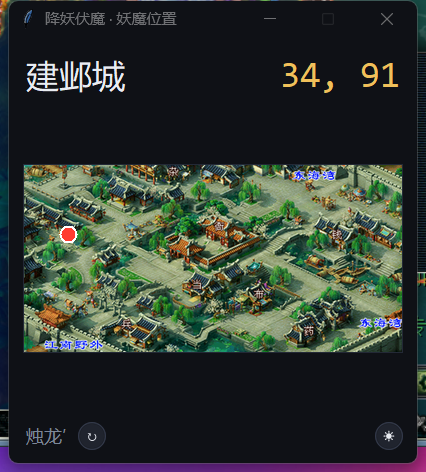
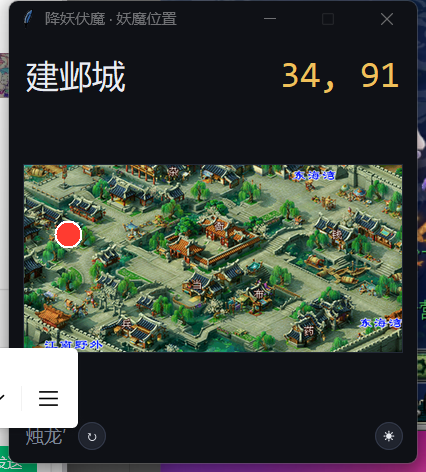
小窗:没目标时占位句落地名位、新目标红点脉冲;底行撤掉最小化按钮,最小化/关闭走标题栏

Changed region(s): [[0.0, 0.0, 0.3967, 1.0], [0.9765, 0.0, 1.0, 0.9492], [0.1221, 0.4449, 0.2136, 0.5339]]

diff --git a/tests.py b/tests.py
@@ -2634,13 +2634,15 @@ def sec_bell_ui():
                   not any("◆ 降妖伏魔 ◆" in _txt(w)
                           for w in _walk(app.bell_win)),
                   str(_texts(app.bell_win)))
-            check("小窗:底行两颗无文字圆钮(☀/☾ 切主题 + ↻ 换客户端)",
+            check("小窗:底行两颗无文字圆钮(↻ 换客户端 / ☀·☾ 切主题)",
                   _txt(app.bell_locate_btn) == ""
                   and _txt(app.bell_theme_btn) == ""
+                  and not hasattr(app, "bell_min_btn")
                   and not hasattr(app, "bell_frame_btn")
                   and not hasattr(app, "bell_region_clear_btn"),
                   f"{_txt(app.bell_locate_btn)!r}/"
-                  f"{_txt(app.bell_theme_btn)!r}")
+                  f"{_txt(app.bell_theme_btn)!r}/"
+                  f"{hasattr(app, 'bell_min_btn')}")
             # ---- 深色 / 明亮两套皮肤:底行那颗 ☀/☾ 切,选择存进 ui_mode ----
             _dark, _light = ui_widgets.BELL_SKINS["a"], ui_widgets.BELL_SKINS["b"]
             check("主题:默认是深色(A)",
@@ -2652,7 +2654,8 @@ def sec_bell_ui():
                   app.bell_mode == "b"
                   and str(app.bell_win.cget("bg")) == _light["bg"]
                   and str(app.bell_canvas.cget("bg")) == _light["paper"]
-                  and str(app.bell_name.cget("fg")) == _light["txt"]
+                  and str(app.bell_name.cget("fg")) == (
+                      _light["sub"] if app.bell_idle else _light["txt"])
                   and str(app.bell_coord.cget("fg")) == _light["gold"]
                   and app.cfg["bell"].get("ui_mode") == "b",
                   f"{app.bell_mode} {app.bell_win.cget('bg')} "
@@ -2763,11 +2766,13 @@ def sec_bell_ui():
 
             app._bell_spot = object()          # 逼它重画(不然缓存命中直接返回)
             ui_bell.draw_bell(app)
-            check("小窗:没妖魔时画布上只写「暂无目标」(不出现监听/定位字样)",
-                  _canvas_txt() == "暂无目标"
+            check("小窗:没妖魔时画布留空,「暂无目标」写在地名位",
+                  _canvas_txt() == ""
+                  and _txt(app.bell_name) == ui_bell.EMPTY_TEXT
+                  and _txt(app.bell_coord) == ""
                   and not any(k in t for t in _texts(app.bell_win)
                               for k in ("监听", "定位")),
-                  f"{_canvas_txt()} / {_texts(app.bell_win)}")
+                  f"{_canvas_txt()!r} / {_texts(app.bell_win)}")
 
             check("小窗:不再显示那两句提示语(右键说明 / 红点说明)",
                   not any("右键" in t for t in shown_texts)
@@ -2907,6 +2912,7 @@ def sec_bell_ui():
             app.engine.bell_tool.ui_state = lambda: {
                 "spot": ("宝象国", 88, 66), "target": "宝象国 (88, 66)"}
             app._bell_spot = None
+            app._bell_last_target = None           # 当成"新目标",应当弹一次
             ui_bell.draw_bell(app)
             items = [app.bell_canvas.type(i)
                      for i in app.bell_canvas.find_all()]
@@ -2931,6 +2937,20 @@ def sec_bell_ui():
                   f"画布 {app.bell_canvas.cget('width')}x"
                   f"{app.bell_canvas.cget('height')} 图@({_ix},{_iy}) "
                   f"{_x1 - _x0}x{_y1 - _y0}")
+            # 新鲜度:新目标弹一下,同值重画不弹
+            check("地图:新目标出现时红点做一次放大-回弹",
+                  bool(getattr(app, "_bell_pulse", None)),
+                  str(getattr(app, "_bell_pulse", None)))
+            _pump(app.root, 400)
+            _co = app.bell_canvas.coords(ovals[0])
+            check("地图:回弹结束红点回到 ±8(16px 直径)",
+                  abs((_co[2] - _co[0]) - 16) < 1
+                  and abs((_co[3] - _co[1]) - 16) < 1, str(_co))
+            app._bell_spot = None
+            ui_bell.draw_bell(app)         # 同一个目标再画一次:不该再弹
+            check("地图:同一目标重画不再回弹(切主题也不会)",
+                  getattr(app, "_bell_pulse", None) is None,
+                  str(getattr(app, "_bell_pulse", None)))
             app.engine.bell_tool.ui_state = lambda: {
                 "spot": ("宝象国", None, None), "target": ""}
             app._bell_spot = None
@@ -2939,6 +2959,17 @@ def sec_bell_ui():
                      for i in app.bell_canvas.find_all()]
             check("地图:只有地图没坐标时不画点、也不写字",
                   kinds == ["image", "rectangle"], str(kinds))
+            # 没目标:画布完全留空,占位句写在地名位(用户 2026-10-21 定的)
+            app.engine.bell_tool.ui_state = lambda: {"spot": None, "target": ""}
+            app._bell_spot = None
+            ui_bell.set_coord(app, "")
+            ui_bell.draw_bell(app)
+            check("地图:没目标 -> 画布留空,占位句在地名位",
+                  len(app.bell_canvas.find_all()) == 0
+                  and _txt(app.bell_name) == ui_bell.EMPTY_TEXT
+                  and _txt(app.bell_coord) == "",
+                  f"{len(app.bell_canvas.find_all())} "
+                  f"{_txt(app.bell_name)!r} {_txt(app.bell_coord)!r}")
 
             app.root.destroy()                # Tk 用完就拆(没有真引擎要收)
 

diff --git a/gui.py b/gui.py
@@ -200,9 +200,9 @@ class App:
         if not self._bell_open():
             ui_bell.build_bell(self)
         bt = self.engine.bell_tool.ui_state()["target"]
-        if bt:
-            self.bell_var.set(bt)
-            ui_bell.set_coord(self, bt)       # 地名/坐标是两个控件,得跟着写
+        # 有没有目标都要写一次:重进功能时工具刚 reset,窗口里可能还挂着上一次的地名
+        self.bell_var.set(bt)
+        ui_bell.set_coord(self, bt)
         # 大小由内容定(皮肤换了以后高度会变,写死一个数会摆偏):set_place 拿
         # 窗口的请求尺寸来居中。
         self._show_here(self.bell_win)
@@ -516,14 +516,14 @@ class App:
                     self._warn_bell_size(bad)
             else:
                 self._bell_size_warned = ""   # 改回支持的分辨率:下次再歪了还能提醒
-            if bt:
-                bv = getattr(self, "bell_var", None)
-                if bv is not None and bv.get() != bt:
-                    bv.set(bt)
-                    # 地名/坐标是两个控件,`bell_var` 改了它们不会自己变 ——
-                    # 必须跟着写(原项目 2026-10-17 用户报"一直停在等待")。
-                    ui_bell.set_coord(self, bt)
-                    ui_bell.draw_bell(self)
+            # 目标清空(工具 reset)也要刷一次:不然窗口里还挂着上一次的地名
+            bv = getattr(self, "bell_var", None)
+            if bv is not None and bv.get() != bt:
+                bv.set(bt)
+                # 地名/坐标是两个控件,`bell_var` 改了它们不会自己变 ——
+                # 必须跟着写(原项目 2026-10-17 用户报"一直停在等待")。
+                ui_bell.set_coord(self, bt)
+                ui_bell.draw_bell(self)
         except Exception:
             pass
         # 引擎线程看门狗:线程退出、或 OCR 假就绪(warmup 推理失败)都重建(10 秒冷却)

diff --git a/ui/widgets.py b/ui/widgets.py
@@ -99,6 +99,29 @@ def dark_titlebar(win, color="#0f1116"):
         pass
 
 
+def hide_maximize(win):
+    """让标题栏右上角只剩最小化 + 关闭(用户 2026-10-21 定的)。
+
+    Tk 的 `resizable(False, False)` 本身就把 `WS_MAXIMIZEBOX` 清了(只是把它
+    置灰),这里再清一遍 + `SWP_FRAMECHANGED` 让非客户区重画。
+    **实测(Win11 24H2 26100)清完那颗按钮只会更灰、不会消失** —— 原生
+    `CreateWindowEx` 建一个没有 `WS_MAXIMIZEBOX` 的窗口也一样,所以那不是本
+    应用的问题;真要它消失得自绘标题栏,代价是丢任务栏图标和最小化,不做。
+    保留这个函数:系统上按钮确实点不动,别的 Windows 版本也许能真删掉。
+    """
+    try:
+        import ctypes
+        hwnd = ctypes.windll.user32.GetParent(win.winfo_id()) or win.winfo_id()
+        gwl_style, ws_maximizebox = -16, 0x00010000
+        style = ctypes.windll.user32.GetWindowLongW(hwnd, gwl_style)
+        ctypes.windll.user32.SetWindowLongW(hwnd, gwl_style,
+                                            style & ~ws_maximizebox)
+        # SWP_NOSIZE|SWP_NOMOVE|SWP_NOZORDER|SWP_FRAMECHANGED
+        ctypes.windll.user32.SetWindowPos(hwnd, 0, 0, 0, 0, 0, 0x1 | 0x2 | 0x4 | 0x20)
+    except Exception:
+        pass
+
+
 def stop_anim(win):
     """把还没跑完的动效停掉。
 
@@ -454,7 +477,9 @@ def apply_bell_skin(mode=None):
             key = f"Bell{tag}_{m}"
             if key in _BELL_ELEMS:
                 continue
-            imgs = _icon_images(glyphs[m] if glyphs else "↻", pal)
+            glyph = ("↻" if glyphs is None
+                     else glyphs[m] if isinstance(glyphs, dict) else glyphs)
+            imgs = _icon_images(glyph, pal)
             _BELL_IMGS[("btn", key)] = imgs
             _ensure(key, imgs, 10)
 

diff --git a/docs/bell-internals.md b/docs/bell-internals.md
@@ -66,13 +66,13 @@
 - **右侧抽屉保留但无入口**（2026-10-20 撤「地图采集」按钮；2026-10-21 应用户要求把抽屉代码原样拷回来——"采集只是从界面移除，代码和逻辑不要删"）：`build_bell` 照旧建 `app.bell_drawer`（`_build_drawer`/`refresh_drawer`/`show_list`/`show_detail`/`toggle_drawer` 全在 `ui/bell.py`），只是没有任何按钮指向它；要开放时加一颗按钮、command 指回 `app.on_map_import`（`on_map_btn`/`on_map_detail` 也都在 `gui.py`）。采集流程本体是 `gui.record_map`（见下面那条）。`toggle_drawer` 的 pady 已按新卡片边距调成 (12,10)。
 - **日志区已整个撤掉**（2026-10-21 用户定的：不需要了）：`bell_log_frame`/`refresh_log`/周期分色（cycle0/cycle1）随界面一起删，Ctrl+Alt+L 热键（`RegisterHotKey` 线程 + `GetAsyncKeyState` 轮询兜底）是只为日志区服务的，一起删——本机的 Ctrl+Alt+L 也早被别的程序占用（`GetLastError=1409`，日志里查得到）。`CYCLE_LOG_MARK` 照旧保留；`app.log` 的 `ui=`/`ui_text=` 参数、`_logs` 队列和 tools 侧的 `bell_kind`/`ui_spot`/`BELL_KIND_WORDS` 已于 2026-10-21 一起删光 —— `App.log` 只剩 `(msg, detail="")`，每行日志只有文件一份。
 - **卡片/日志框的尺寸别写死**：`card` 曾经是 `width/height=424,430 + pack_propagate(False)`，而内容要 479px —— 底下两行按钮被静默裁掉（用户一眼看出来："下面的图标呢？"）。现在卡片高度由内容撑（只有宽度靠 400px 画布定）；`sec_bell_ui` 里量了"每个按钮下边缘 ≤ 卡片高度"防回归。同理 `bell_log_box` 必须写 `width=1`（`tk.Text` 默认 80 字符宽，会把整个窗口撑到 590px，卡片缩在左边、右侧一条空带）——**日志框 2026-10-21 已随日志区一起删掉**，这条只留作以后再加文本控件时的提醒。
-- **小窗皮肤**（`ui/widgets.py:apply_bell_skin()` + `BELL_SKINS`；2026-10-16 定过 Q版风、2026-10-21 上午换成客户端风，**2026-10-21 用户看完对比稿后选定「深色 HUD」A，并要求加一颗按钮切到明亮 B**）：两套色板 `BELL_SKINS = {"a": 深色, "b": 明亮}`，版面完全相同。共同点：**单面色板 + 地图当主体**，坐标用 Consolas 等宽数字（位数一变不左右跳）、红点带 2px 白描边（`sec_bell_ui` 盯着）、**不出现「监听/定位」这类交代程序在干什么的文案**（用户定的 2026-10-21）、没目标时画布上只有「暂无目标」、字体 `Microsoft YaHei UI`（宋体在 10px 会糊）。
+- **小窗皮肤**（`ui/widgets.py:apply_bell_skin()` + `BELL_SKINS`；2026-10-16 定过 Q版风、2026-10-21 上午换成客户端风，**2026-10-21 用户看完对比稿后选定「深色 HUD」A，并要求加一颗按钮切到明亮 B**）：两套色板 `BELL_SKINS = {"a": 深色, "b": 明亮}`，版面完全相同。共同点：**单面色板 + 地图当主体**，坐标用 Consolas 等宽数字（位数一变不左右跳）、红点带 2px 白描边（`sec_bell_ui` 盯着）、**不出现「监听/定位」这类交代程序在干什么的文案**（用户定的 2026-10-21）、**没目标时占位句「暂无目标」写在地名位**（`ui/bell.py:EMPTY_TEXT`，`sub` 色），画布**完全留空**——不在画布中间写字（2026-10-21 用户报过"像卡片上开了个洞"）、**新目标出现时红点弹一次**（`PULSE_FRAMES`，16→~30px 再回弹，~175ms；同目标重画不弹，判据 `app._bell_last_target`；用户不要时间戳，这是唯一的新鲜度反馈）、字体 `Microsoft YaHei UI`（宋体在 10px 会糊）。
   - A 深色（默认）：`bg`=`#0f1116`、`paper`=`#0f1116`（**和窗口底同色**：底图比画框窄/矮时的留边就是窗口底色，别出现"另一个颜色的框"，用户 2026-10-21 报过）、`line`=`#232936`、`txt`=`#e9ecf2`、`sub`=`#7d8798`、坐标 `gold`=`#f0c05a`、红点 `#ff3b30`、标题栏刷成 `#0f1116`。
   - B 明亮：`bg`=`#ffffff`、`paper`=`#ffffff`（同上）、`line`=`#e4e7ec`、`txt`=`#141922`、`sub`=`#6b7280`、坐标 `gold`=`#111827`（近黑，明亮模式不用金色）、红点 `#ef4444`、标题栏恢复系统浅色（`dark_titlebar(win, None)`）。
   - 地图外圈有 **1px 内描边**（色板 `map_edge`：深色 `#232936` 几乎看不见，明亮 `#d8dde5` 给白底一个边界）；画布元素是 `rectangle`，`sec_bell_ui` 盯着条数。
   - 切换机制：两个模式的 ttk 元素在第一次调用时**各建一套**（元素名带模式后缀，如 `BellBtn_a` / `BellBtn_b`），切换只改 `style.layout()` 指向哪套 + `style.configure()` 的颜色；`_BELL_APPLIED` 记住"当前已生效的模式"，同模式重复调用直接返回（否则 `draw_bell` 每次重画几十张 PIL 图）。tk 控件（窗口/标签/画布）的颜色切换在 `ui/bell.py:apply_theme`，调用点 `gui.App.on_toggle_theme`（存 `bell.ui_mode`）。
   **Tk 给不了圆角**，圆角控件都是 PIL 现画：`_round_pil()` / `_round_img()` / `_btn_images()`（96x40 三态）/ `_icon_images()`（28x28 圆形 ↻）/ `bell_image("chip")`（抽屉小标题）。三个坑：**① 这些 PhotoImage 必须自己留引用**（`_BELL_IMGS`），Tk 图没人持有就销毁，样式元素会指向空图 —— 表现是"按钮突然退回没底色的文字"，而且第一次渲染还看不出来（GC 还没跑）；② 缓存和 ttk 元素都**按 Tk 解释器**存（`_BELL_TK`），测试里新建 root 要重建；③ `style.element_create(el, "image", 常态图, ("active", 悬停图), ("pressed", 按下图), border=N)` —— **状态名在前、图在后**，写成 `(图, ("active",))` 会报 `Invalid state name ...` 并被 `except` 吞掉：这处静默失败让圆角按钮从上线起一直是**方角纯色块**，直到 2026-10-21 才修（顺带 `border` 不能大于图的一半，`background` 必须填**窗口底色** —— 圆角图四角是透明的，填按钮自己的颜色会露方块）。
-  按钮仍是标准 ttk 按钮套图片布局（`winfo_class()` 还是 `TButton`、`cget("text")`/`invoke()` 照旧）；**图标按钮要 `width=0`**，不写的话 ttk 按主题默认宽 77px 摆。样式名一律 `Bell` 前缀：`Bell.TButton` / `BellGold.TButton` / `BellAccent.TButton` / `BellGhost.TButton` / `BellIcon.TButton` / `BellSection.TLabel` / `BellFoot.TLabel` / `Bell.TFrame`。标题栏由 `dark_titlebar()`（`DwmSetWindowAttribute`，属性 20/19 + 35）刷深色 —— **必须在窗口显示出来之后再设**（建窗那一下设了会被系统盖回去，所以 `bind("<Map>")` 每次显示都刷一次）。
+  按钮仍是标准 ttk 按钮套图片布局（`winfo_class()` 还是 `TButton`、`cget("text")`/`invoke()` 照旧）；**图标按钮要 `width=0`**，不写的话 ttk 按主题默认宽 77px 摆。样式名一律 `Bell` 前缀：`Bell.TButton` / `BellGold.TButton` / `BellAccent.TButton` / `BellGhost.TButton` / `BellIcon.TButton` / `BellSection.TLabel` / `BellFoot.TLabel` / `Bell.TFrame`。标题栏由 `dark_titlebar()`（`DwmSetWindowAttribute`，属性 20/19 + 35）刷深色 —— **必须在窗口显示出来之后再设**（建窗那一下设了会被系统盖回去，所以 `bind("<Map>")` 每次显示都刷一次）。同一次 `<Map>` 里还调 `hide_maximize()` 清掉 `WS_MAXIMIZEBOX` —— **注意：Win11 24H2 只会把最大化按钮置灰、不会让它消失**（原生窗口也这样，不是我们的 bug；要真消失只能自绘标题栏，会丢任务栏/最小化，2026-10-21 决定不做）。底行不再有 `−`：**最小化/关闭走系统标题栏**。
   **窗口大小固定**：`show_bell` 调 `_show_here(self.bell_win)`（不传写死尺寸）；**画框固定 `MAP_W=380` × `MAP_H=300`**（2026-10-21 用户定：先试 400x280，后来改成这一档——长寿村从 214 宽长到 229，代价是建邺城上下留边 55、长寿村左右 75）——底图**等比缩进画框后居中**，红点坐标也跟着加偏移；换图时窗口高度不再变（之前长寿村把窗口撑到 696）。别再改回"画布高度跟着底图长宽比算"那套。坐标/地名是两个控件，`gui.show_bell` / `_drain_logs` 里 `ui_bell.set_coord(...)` 那一行不能少。**文字必须完整显示**（用户 2026-10-21 报过"地图名显示不全"）：Tk 字号是**磅值**（20pt 在 100% 下重排成 ~41px 高），所以地名行的**行高由内容撑、别写死**（原来写死 30px，字一直被上下裁）；地名太长由 `_fit_name` 从 20pt 一级级缩到 12pt，保证整串 + 坐标落在 400px 里，不省略不截断。想再看外观就写一次性探针（真建窗口 + 假引擎 + 假底图），先打印控件清单和坐标，能用数字核对就别读图；看完把探针删掉（`_*.py` 已在 .gitignore 里）。
 - **手动框选入口已删**：`on_pick_bell_region` / `on_clear_bell_region` / `bell_rect` / `frame()` / `framed()` / 框失准看门狗全部移除（用户 2026-10-17）。底行右侧只剩一个无文字的 ↻（2026-10-21 起；此前是「自动定位」按钮）。
 - **铃铛不播报语音**（用户要求）：本应用没有语音链，`tools/bell.py` 也不调 `app.speaker.say`；认到妖魔只写日志 + 更新界面上的点（`ui_state()["spot"]`）。

diff --git a/AGENTS.md b/AGENTS.md
@@ -36,7 +36,17 @@ Windows 桌面工具(Python 3.12 + Tk + RapidOCR/DirectML),从 `E:/Project/keju-
 - **小窗上只有四类字**:地名、坐标、角色名 + 两颗无文字圆钮(**↻ 紧跟在角色名
   后面**,位置随名字长度走;**☀/☾ 在右下角**切深色/明亮;2026-10-21 用户选定的
   深色 HUD A + 明亮 B 两套皮肤,选择存 `bell.ui_mode`;不出现"监听/定位"这类
-  交代程序在干什么的文案,没目标时画布上只写「暂无目标」)。别再加状态行/文字按钮
+  交代程序在干什么的文案)。别再加状态行/文字按钮
+- **没目标 = 空状态**:占位句「暂无目标」写在**地名位**(灰),画布**完全留空**
+  (2026-10-21 用户定的:画布中间不再写字,否则像卡片上开了个洞)
+- **最小化/关闭走系统标题栏**(2026-10-21 用户定的):底行**不再有 `−`**,
+  标题栏那颗最大化虽被 `hide_maximize()` 清了 `WS_MAXIMIZEBOX` 而点不动,
+  但 **Win11 24H2 仍会画一个灰框**(原生窗口实测:只置灰不消失),别以为是
+  自己的 bug;真要它消失只能自绘标题栏,那会丢掉任务栏/最小化,不做
+- **新目标红点弹一下**:换目标时红点从 16px 放大到 ~30px 再回弹(`PULSE_FRAMES`,
+  全程 ~175ms,`after` 驱动),同目标重画(切主题)不弹 —— 判据是
+  `app._bell_last_target`,别改成"每次 draw 都弹"。这是唯一的"新鲜度"反馈
+  (用户 2026-10-21 明确不要时间戳)
 - **圆钮靠 hover 自解释**:鼠标停上去时底行那句临时换成「换客户端」/「明亮模式」
   (Tk 没有内置 tooltip);没定位到底行写「暂未找到客户端」,不留空
 - **画框固定 380x300**(2026-10-21 用户定;先试过 400x280):底图等比缩进画框后
